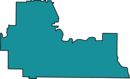
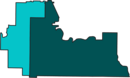
Modified the landing page to include the mini-maps and an embedded google calendar.

diff --git a/public/stylesheets/application.css b/public/stylesheets/application.css
@@ -369,3 +369,12 @@ form.formtastic ol {
     color: #444444;
     background-color: #dddddd;
     text-align: left; }
+
+.mini_maps {
+  float: left;
+  margin-left: 12px; }
+  .mini_maps div {
+    height: 150px;
+    width: 125px; }
+    .mini_maps div p {
+      margin-bottom: 3px; }

diff --git a/public/stylesheets/sass/application.sass b/public/stylesheets/sass/application.sass
@@ -379,3 +379,12 @@ form.formtastic
       color: #444
       background-color: #ddd
       text-align: left
+
+.mini_maps
+  float: left
+  margin-left: 12px
+  div
+    height: 150px
+    width: 125px
+    p
+      margin-bottom: 3px

diff --git a/app/controllers/info_controller.rb b/app/controllers/info_controller.rb
@@ -1,9 +1,9 @@
 class InfoController < ApplicationController
   def index
     @days_until_election = Date.parse("2011 October 4") - Date.today
-    @regions = Constituency::REGIONS
     latest_news = NewsArticle.approved.with_mentions_and_politicians.limit(6)
     @latest_news_by_date = latest_news.group_by(&:pretty_date)
+    @maps = Map.all
   end
 
   def regions
